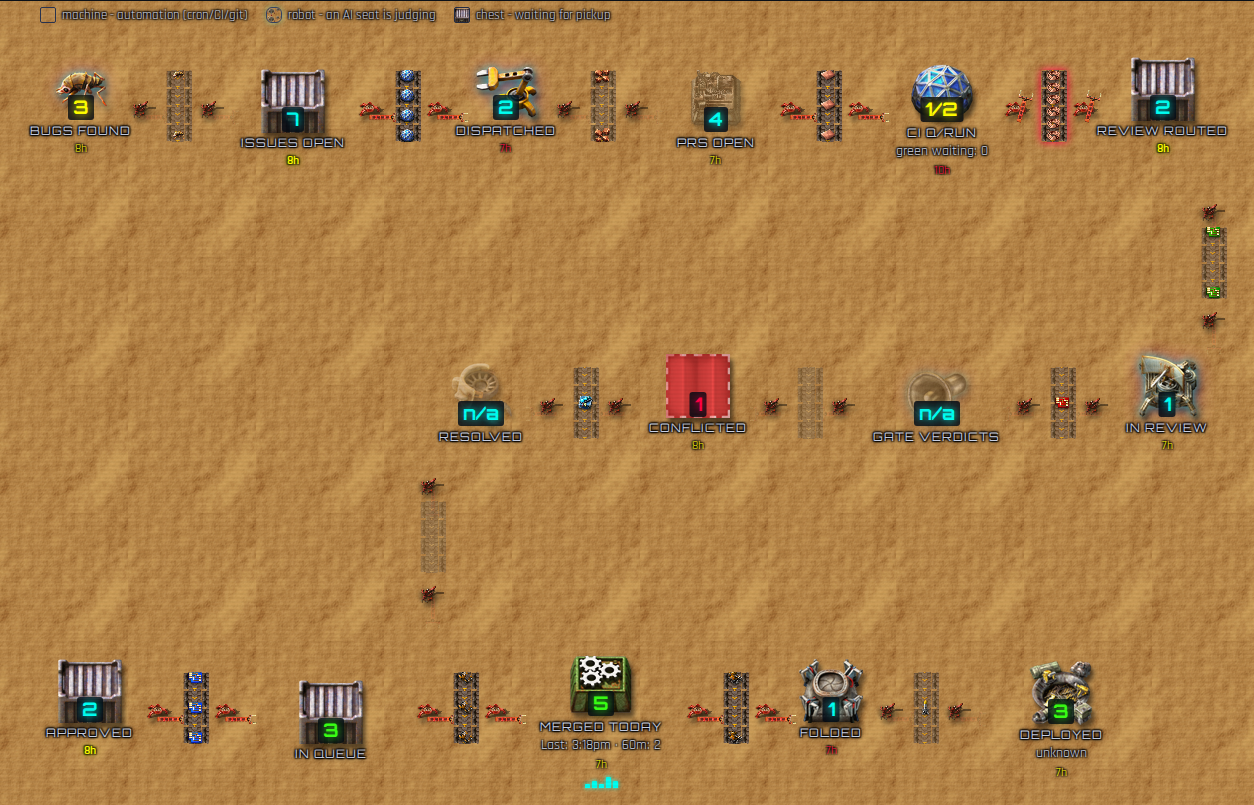
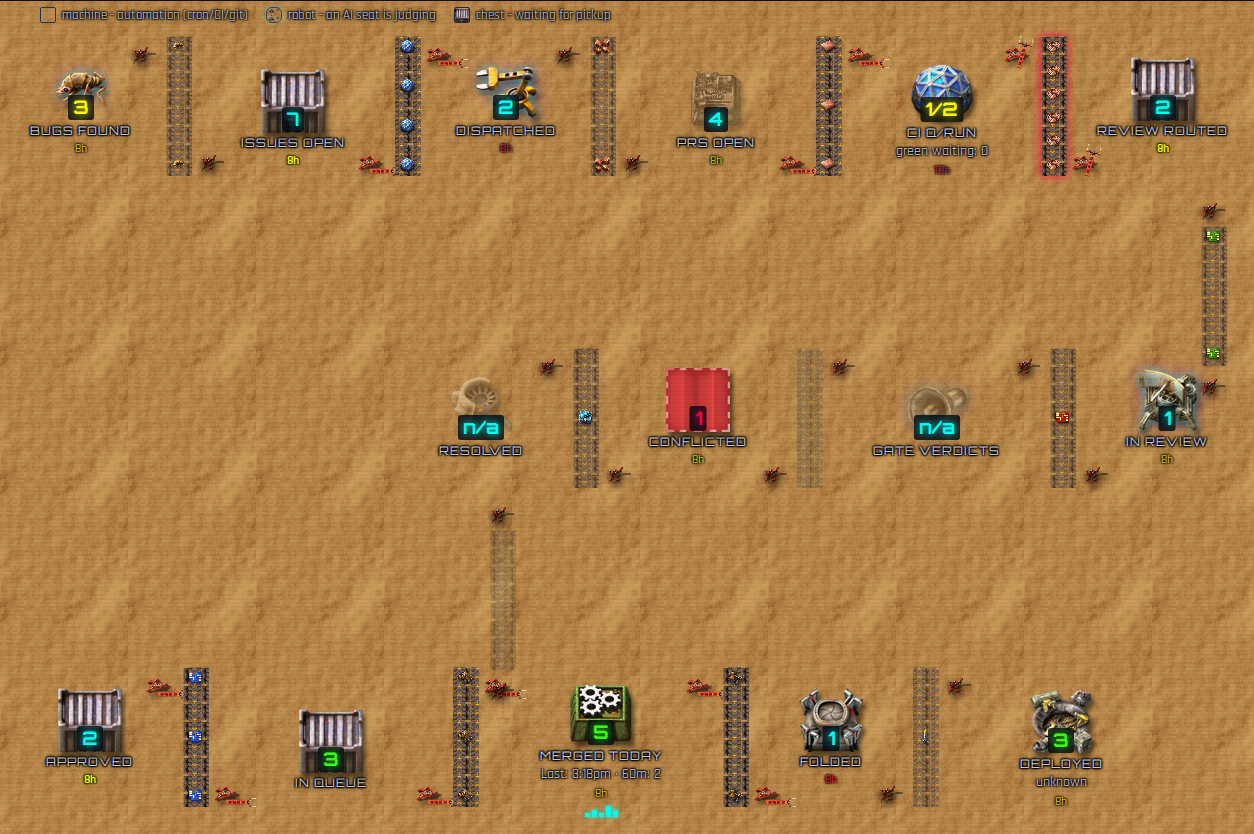
fix(monitor): alternating belt direction, top/bottom inserters, taller belts
Ben, looking closer at his built reference: "buildings are not lined up
like yours - that's so there is more belt so I can see when they're backed
up. The inserters are at the highest or lowest position beside the belts -
they insert at the beginning and take off at the end. The chevrons don't
all point down, they switch back and forth."

- .ship-belt-vertical height 72px -> 140px: a real jam now visibly piles up
  along actual belt length instead of showing a couple of dots.
- New belt-tile-vertical-up.png (source tile rotated +90deg instead of -90)
  and .ship-belt-vertical-up modifier + ship-belt-flow-vertical-up keyframe,
  so an upward-flowing belt's chevrons genuinely point up, not down.
- SHIP_VBELT_ROW_ORDER + shipVbeltFlowsDown(square): the 12 in-row belts
  alternate flow direction (down, up, down, up...) restarting per row,
  matching the reference's own single-row demo exactly. The 2 row-turn
  belts (elbowId set) stay always-down - the stage before genuinely is
  above and the stage after genuinely is below for those.
- shipInserterHtml gained an alignCls param (.ship-inserter.align-top /
  .align-bottom, align-self:flex-start/flex-end) - each inserter now sits
  at the belt's own beginning or end (whichever is top vs bottom for that
  belt's flow direction), not centered beside it. shipBeltHtml's item-slot
  formula flips the same way so item 0 is always the upstream end.

Full test suite re-verified green.
[…]

diff --git a/queue_router.py b/queue_router.py
@@ -7611,7 +7611,13 @@ width:38px;gap:2px;padding:2px 0;z-index:4}
    they connect really are stacked above/below on screen, so those stay a
    column stack. */
 .ship-arrow-vbelt{flex-direction:row;flex:0 0 auto;width:auto;height:auto;
-gap:2px;padding:2px 4px;align-self:center}
+gap:2px;padding:2px 4px;align-self:center;align-items:center}
+/* Ben's built reference: each inserter sits at the belt's own beginning or
+   end - top or bottom - never centered beside it, so it visibly interacts
+   with the correct extreme of the belt (where items actually enter/exit)
+   rather than floating at the belt's midpoint. */
+.ship-inserter.align-top{align-self:flex-start}
+.ship-inserter.align-bottom{align-self:flex-end}
 /* The belt itself: a scrolling texture tile carrying the order-17 item
    chain. State is rendered, never captioned - order 9's "hover is where the
    numbers live" (native title attr on the arrow, unchanged). LORE order 17
@@ -7639,7 +7645,11 @@ animation:ship-belt-flow linear infinite;animation-duration:var(--belt-duration,
    hijacked by whichever axis happens to be the parent's main axis - this
    belt sits inside a column-direction parent (.ship-arrow-vertical, the
    row-turn) AND a row-direction one (.ship-arrow-vbelt, in-row) now. */
-.ship-belt-vertical{width:26px;height:72px;flex:0 0 auto}
+/* Ben: "buildings are not lined up... that's so there is more belt so it
+   will show more items on the belt so I can see when they're backed up" -
+   taller than the original 72px so a jam visibly piles up along real belt
+   length, not just a couple of dots. */
+.ship-belt-vertical{width:26px;height:140px;flex:0 0 auto}
 /* Ben's built reference: each belt segment's own chevron faces the actual
    direction of travel (down), not sideways - the base tile's chevron is
    baked in pointing right (it's a horizontal-belt asset), so a vertical
@@ -7650,6 +7660,13 @@ animation:ship-belt-flow linear infinite;animation-duration:var(--belt-duration,
 .ship-belt-vertical .ship-belt-track{background-image:url('/static/factorio/belt/belt-tile-vertical.png');
 background-size:18px 18px;background-repeat:repeat;animation-name:ship-belt-flow-vertical}
 @keyframes ship-belt-flow-vertical{to{background-position-y:18px}}
+/* Ben's built reference: consecutive in-row belts alternate their own flow
+   direction (down, up, down, up...), each with its own pre-rotated chevron
+   tile facing the direction it actually travels - never a downward tile on
+   a belt that flows up. */
+.ship-belt-vertical-up .ship-belt-track{background-image:url('/static/factorio/belt/belt-tile-vertical-up.png');
+animation-name:ship-belt-flow-vertical-up}
+@keyframes ship-belt-flow-vertical-up{to{background-position-y:-18px}}
 .ship-belt-items{position:absolute;inset:0}
 .ship-belt-item{position:absolute;top:50%;left:50%;width:16px;height:16px;transform:translate(-50%,-50%);
 filter:drop-shadow(0 1px 1px rgba(0,0,0,.6))}
@@ -8581,7 +8598,7 @@ function shipStagePhase(square) {
 // right-to-left, 180 for a vertical (top-to-bottom) belt - both the loading
 // and unloading inserter on a vertical belt reach straight down, since both
 // sit beside a belt whose flow is always downward.
-function shipInserterHtml(count, armRest, unknown, phaseSeed, backedUp, swingDuration) {
+function shipInserterHtml(count, armRest, unknown, phaseSeed, backedUp, swingDuration, alignCls) {
     const moving = count > 0;
     const hand = moving ? 'long-handed-inserter-hand-closed.png' : 'long-handed-inserter-hand-open.png';
     // Ben's remnants amendment: an arrow with NO measured rate (unknown, not
@@ -8590,6 +8607,11 @@ function shipInserterHtml(count, armRest, unknown, phaseSeed, backedUp, swingDur
     // look like the idle (measured-zero) inserter.
     const remnantCls = unknown ? ' remnant' : '';
     const backedUpCls = backedUp ? ' backed-up' : '';
+    // Ben's built-reference correction: on an in-row vertical belt, each
+    // inserter sits at the belt's own beginning or end (top or bottom), not
+    // centered beside it - alignCls carries that ('align-top'/'align-bottom'),
+    // set by the caller from the belt's own flow direction.
+    const alignClsStr = alignCls ? ' ' + alignCls : '';
     // long-handed-inserter-remnants.png measured 134x376: 4 frames stacked
     // 134x94 each - crop frame 1, don't scale the whole strip into the slot.
     const platformStyle = unknown
@@ -8599,7 +8621,7 @@ function shipInserterHtml(count, armRest, unknown, phaseSeed, backedUp, swingDur
     const swingVars = '--arm-rest:' + armRest + 'deg;' + ((moving && swingDuration)
         ? '--swing-duration:' + swingDuration + 's;--swing-delay:-' + (phase * swingDuration).toFixed(3) + 's;'
         : '');
-    return '<span class="ship-inserter ' + (moving ? 'moving' : 'idle') + remnantCls + backedUpCls + '">'
+    return '<span class="ship-inserter ' + (moving ? 'moving' : 'idle') + remnantCls + backedUpCls + alignClsStr + '">'
         + '<span class="inserter-platform"' + platformStyle + '></span>'
         + '<span class="inserter-arm" style="' + swingVars + 'background-image:url(/static/factorio/inserter/' + hand + ')"></span>'
         + '</span>';
@@ -8647,6 +8669,24 @@ const SHIP_ARROW_ITEM = {
     'merged today':  'items/tank.png',
     'folded':        'items/rocket.png',
 };
+// Ben's correction on the built reference: consecutive in-row vertical belts
+// alternate their own flow direction (down, up, down, up...) rather than all
+// pointing the same way - restarting at "down" per row, matching the
+// reference's own single-row demo. Purely a per-segment rendering choice
+// (the OVERALL item chain still always reads bug->rocket left to right);
+// only which end of THIS belt is "up" vs "down" flips.
+const SHIP_VBELT_ROW_ORDER = [
+    ['bugs found', 'issues open', 'dispatched', 'prs open', 'ci q/run'],
+    ['in review', 'gate verdicts', 'conflicted'],
+    ['approved', 'in line', 'merged today', 'folded'],
+];
+function shipVbeltFlowsDown(square) {
+    for (const row of SHIP_VBELT_ROW_ORDER) {
+        const idx = row.indexOf(square);
+        if (idx !== -1) return idx % 2 === 0;
+    }
+    return true;
+}
 // Standard 120x64 mip-chain sheet (order 11's own convention) - scaled to
 // whatever pixel size the belt slot calls for, first frame only.
 function shipItemImgHtml(itemPath, sizePx) {
@@ -8663,7 +8703,7 @@ function shipItemImgHtml(itemPath, sizePx) {
 // that have never had a formal rate/backlog instrument. `vertical` (order
 // 17 #3) swaps the belt's own long axis and the item layout from left/right
 // to top/bottom - see the call site for which two arrows use it.
-function shipBeltHtml(square, hasRate, rate, backedUp, knownCount, dir, vertical) {
+function shipBeltHtml(square, hasRate, rate, backedUp, knownCount, dir, vertical, vDown) {
     const itemPath = SHIP_ARROW_ITEM[square];
     if (!itemPath) return '';
     let state, slots;
@@ -8684,14 +8724,15 @@ function shipBeltHtml(square, hasRate, rate, backedUp, knownCount, dir, vertical
         const t = slots === 1 ? 0.5 : i / (slots - 1);
         // LORE order 17 #3 fix: the belt now genuinely scrolls in its flow
         // direction (see .ship-belt-track's keyframes), so item slot 0 is
-        // always the upstream (pickup) end regardless of dir/vertical -
-        // 'left'-dir mirrors which physical edge that is, vertical belts
-        // always flow top->bottom.
-        const pos = vertical ? (8 + 84 * t) : (dir === 'left' ? (92 - 84 * t) : (8 + 84 * t));
+        // always the upstream (pickup) end - 'left'-dir mirrors which
+        // physical edge that is for a horizontal belt; a vertical belt's
+        // own vDown flips which end (top or bottom) is upstream, per Ben's
+        // built reference (consecutive in-row belts alternate direction).
+        const pos = vertical ? (vDown ? (8 + 84 * t) : (92 - 84 * t)) : (dir === 'left' ? (92 - 84 * t) : (8 + 84 * t));
         const axis = vertical ? 'top' : 'left';
         itemsHtml += '<span class="ship-belt-item" style="' + axis + ':' + pos.toFixed(1) + '%">' + shipItemImgHtml(itemPath, itemSize) + '</span>';
     }
-    const dirCls = vertical ? ' ship-belt-vertical' : (dir === 'left' ? ' ship-belt-left' : '');
+    const dirCls = vertical ? (' ship-belt-vertical' + (vDown ? '' : ' ship-belt-vertical-up')) : (dir === 'left' ? ' ship-belt-left' : '');
     return '<div class="ship-belt ship-belt-' + state + dirCls + '">'
         + '<div class="ship-belt-track"></div>'
         + '<div class="ship-belt-items">' + itemsHtml + '</div></div>';
@@ -8767,6 +8808,14 @@ function shipArrow(square, glyph, arrow, description, legacyCount, width, isBott
     // stages - Ben's correction - so their inserters swing horizontally,
     // same as a plain (non-vertical) arrow.
     const armRest = (vertical && elbowId) ? 180 : (dir === 'left' ? -90 : 90);
+    // Ben's built reference: the two row-turn belts stay downstream-is-down
+    // (the stage before really is above, the stage after really is below);
+    // the 12 in-row belts alternate per SHIP_VBELT_ROW_ORDER, and each
+    // inserter sits at the belt's own beginning (top if flowing down, bottom
+    // if flowing up) or end (the opposite), never centered beside it.
+    const vDown = !vertical || elbowId ? true : shipVbeltFlowsDown(square);
+    const loadAlign = (vertical && !elbowId) ? (vDown ? 'align-top' : 'align-bottom') : null;
+    const unloadAlign = (vertical && !elbowId) ? (vDown ? 'align-bottom' : 'align-top') : null;
     return '<' + tag + (agentLane ? ' type="button"' : ' role="img"') + ' class="ship-arrow' + (isBottleneck ? ' bottleneck' : '') + dirCls + '"'
         + (elbowId ? ' id="' + elbowId + '"' : '') + ' style="' + style
         + '" data-square-left="' + square + '" title="' + label + '" aria-label="' + label + '"'
@@ -8776,9 +8825,9 @@ function shipArrow(square, glyph, arrow, description, legacyCount, width, isBott
         // (upstream, places items on) then unloading (downstream, takes them
         // off) - same rate/backedUp/unknown state on both, but each gets its
         // own phase seed so they are never mirror-synced.
-        + shipInserterHtml(rateForSpeed, armRest, !hasRate, square + '-load', isBottleneck, duration)
-        + shipBeltHtml(square, hasRate, rateForSpeed, isBottleneck, knownCount, dir, vertical)
-        + shipInserterHtml(rateForSpeed, armRest, !hasRate, square + '-unload', isBottleneck, duration)
+        + shipInserterHtml(rateForSpeed, armRest, !hasRate, square + '-load', isBottleneck, duration, loadAlign)
+        + shipBeltHtml(square, hasRate, rateForSpeed, isBottleneck, knownCount, dir, vertical, vDown)
+        + shipInserterHtml(rateForSpeed, armRest, !hasRate, square + '-unload', isBottleneck, duration, unloadAlign)
         + '</' + tag + '>';
 }
 
